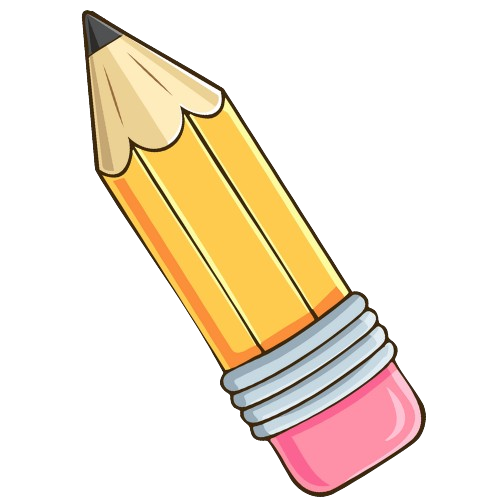
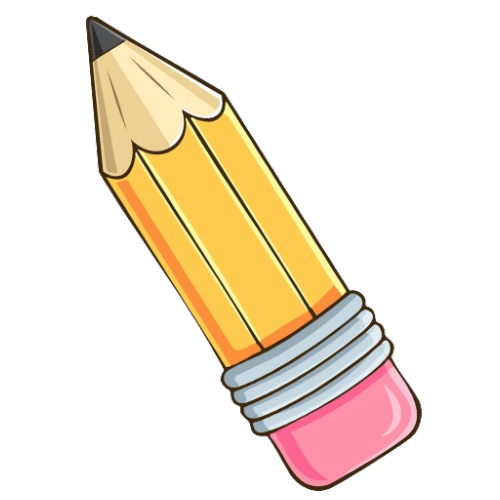
Changes

diff --git a/src/components/CustomCursor.tsx b/src/components/CustomCursor.tsx
@@ -99,19 +99,19 @@ const CustomCursor = () => {
         )}
       </svg>
       
-      {/* Pencil cursor - more vertical with tip up */}
+      {/* Pencil cursor */}
       <div
         className="fixed pointer-events-none z-[9999] transition-transform duration-75"
         style={{
           left: position.x,
           top: position.y,
-          transform: `translate(-6px, -6px) rotate(-135deg) ${isClicking ? 'scale(0.85)' : 'scale(1)'}`,
+          transform: `translate(-12px, -32px) ${isClicking ? 'scale(0.85)' : 'scale(1)'}`,
         }}
       >
         <img
           src="/images/pencil-cursor.png"
           alt=""
-          className="w-10 h-10 object-contain"
+          className="w-8 h-8 object-contain"
           draggable={false}
         />
       </div>
